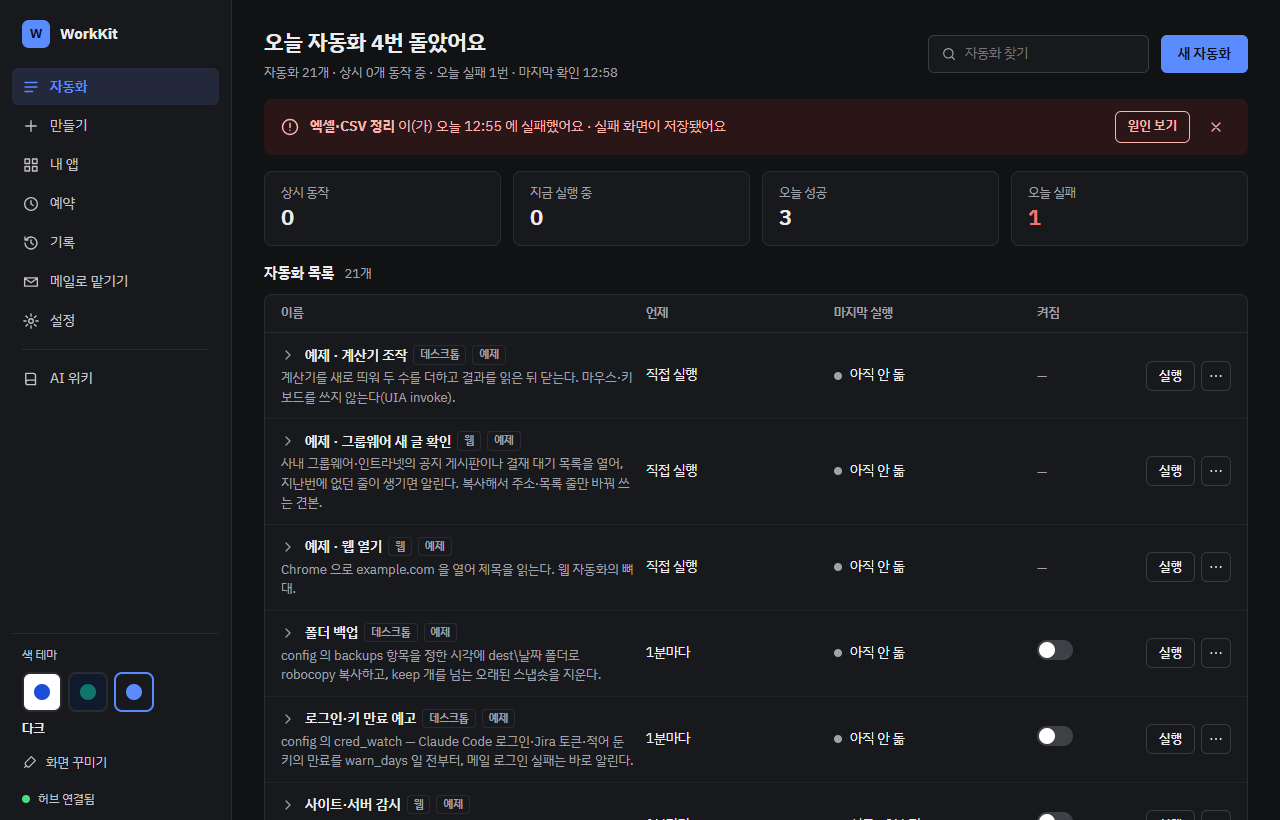
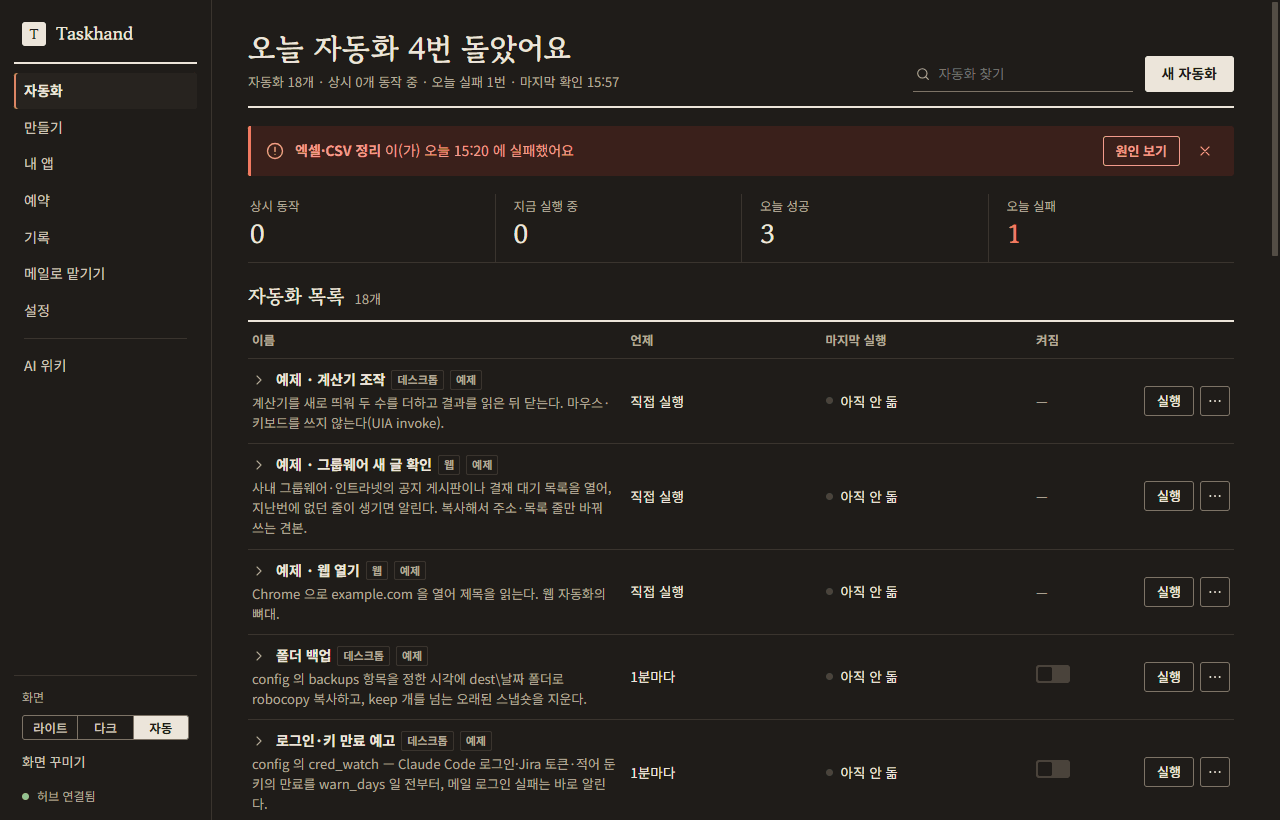
README 스크린샷을 「종이 노트」·Taskhand 이름으로 다시 찍음 — 라이트·다크 2열(옛 navy 3장 지움)
가상 견본 데이터로만 찍음 — 실명·메일·회사명·경로 없음.

diff --git a/README.md b/README.md
@@ -21,13 +21,15 @@
 ![허브 첫 화면 — 오늘 요약·실패 알림·자동화 표](docs/images/ui-hub-light.png)
 
 <details>
-<summary>색 테마 3종 · 만들기 · 운영 화면 더 보기</summary>
+<summary>라이트 · 다크 · 만들기 · 운영 화면 더 보기</summary>
 
-| | 기본 | 진한 사이드바 | 다크 |
-|---|---|---|---|
-| 자동화 | <img src="docs/images/ui-hub-light.png" width="260" alt="자동화 · 기본"> | <img src="docs/images/ui-hub-navy.png" width="260" alt="자동화 · 진한 사이드바"> | <img src="docs/images/ui-hub-dark.png" width="260" alt="자동화 · 다크"> |
-| 만들기 | <img src="docs/images/ui-make-light.png" width="260" alt="만들기 · 기본"> | <img src="docs/images/ui-make-navy.png" width="260" alt="만들기 · 진한 사이드바"> | <img src="docs/images/ui-make-dark.png" width="260" alt="만들기 · 다크"> |
-| 운영 | <img src="docs/images/ui-ops-light.png" width="260" alt="운영 · 기본"> | <img src="docs/images/ui-ops-navy.png" width="260" alt="운영 · 진한 사이드바"> | <img src="docs/images/ui-ops-dark.png" width="260" alt="운영 · 다크"> |
+화면은 「종이 노트」 하나 — 라이트 · 다크 · 자동(Windows 설정 따라감) 중에서 고른다.
+
+| | 라이트 | 다크 |
+|---|---|---|
+| 자동화 | <img src="docs/images/ui-hub-light.png" width="390" alt="자동화 · 라이트"> | <img src="docs/images/ui-hub-dark.png" width="390" alt="자동화 · 다크"> |
+| 만들기 | <img src="docs/images/ui-make-light.png" width="390" alt="만들기 · 라이트"> | <img src="docs/images/ui-make-dark.png" width="390" alt="만들기 · 다크"> |
+| 운영 | <img src="docs/images/ui-ops-light.png" width="390" alt="운영 · 라이트"> | <img src="docs/images/ui-ops-dark.png" width="390" alt="운영 · 다크"> |
 
 </details>
 
